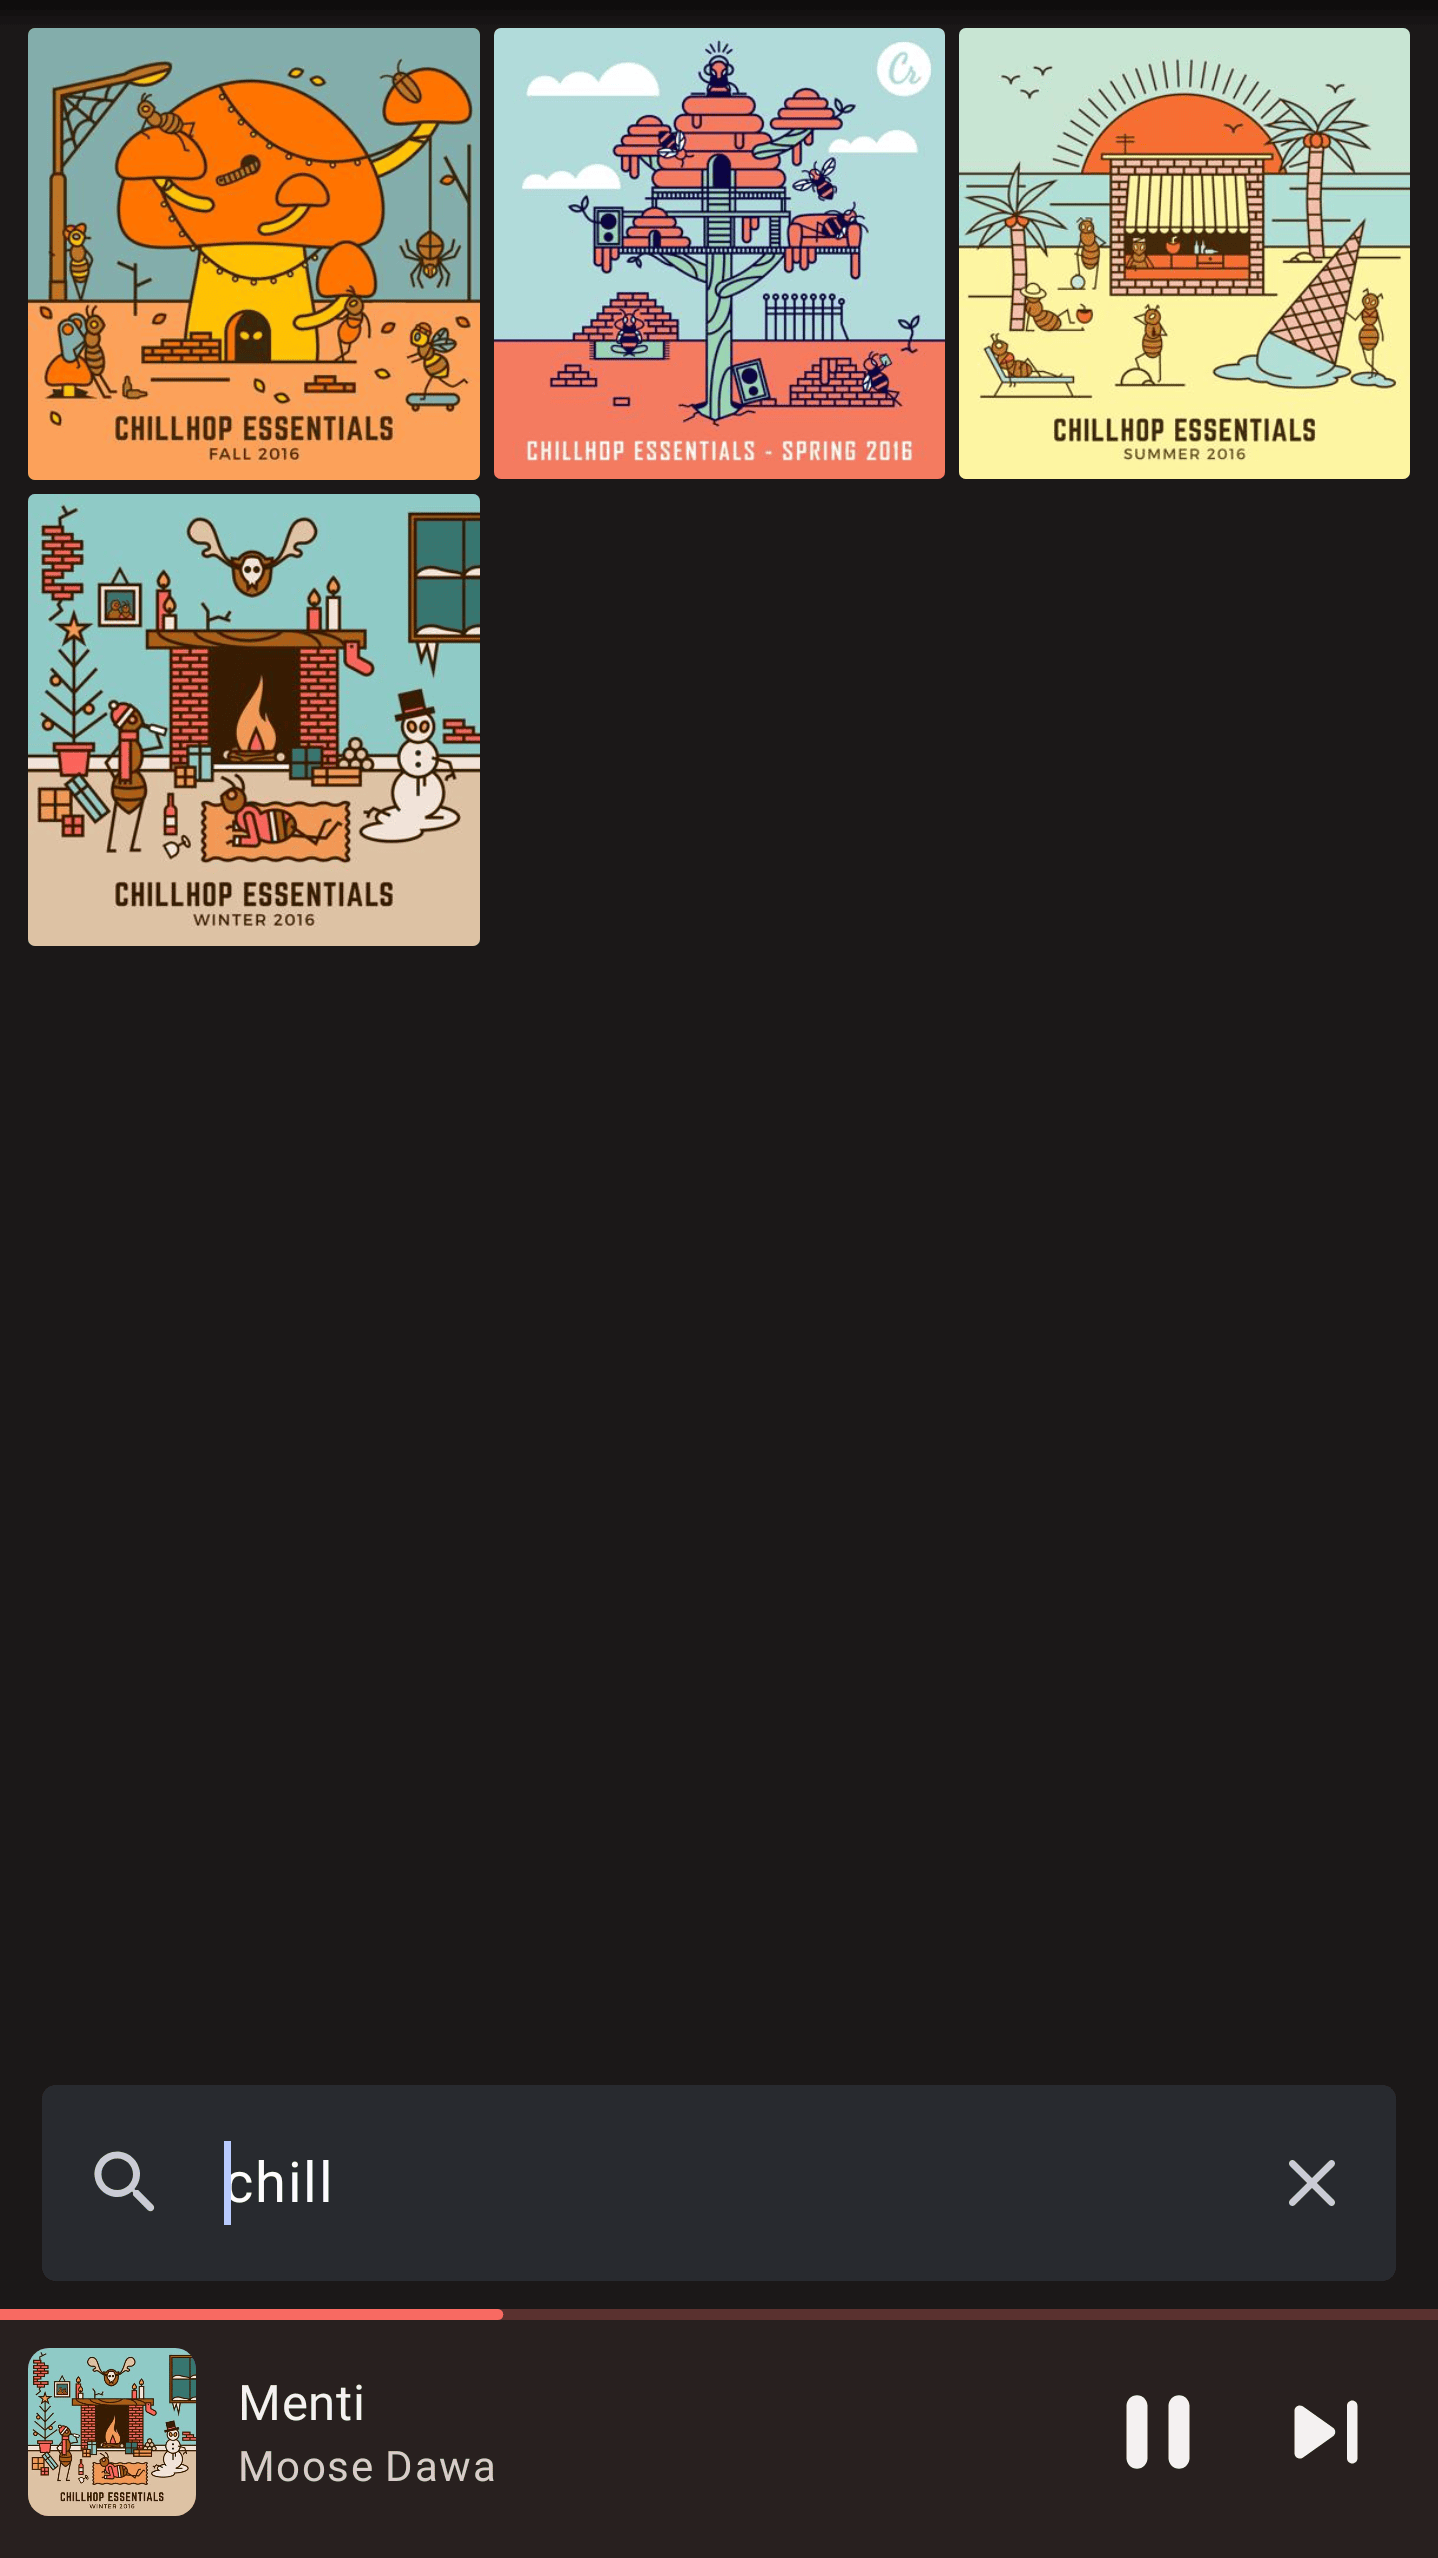
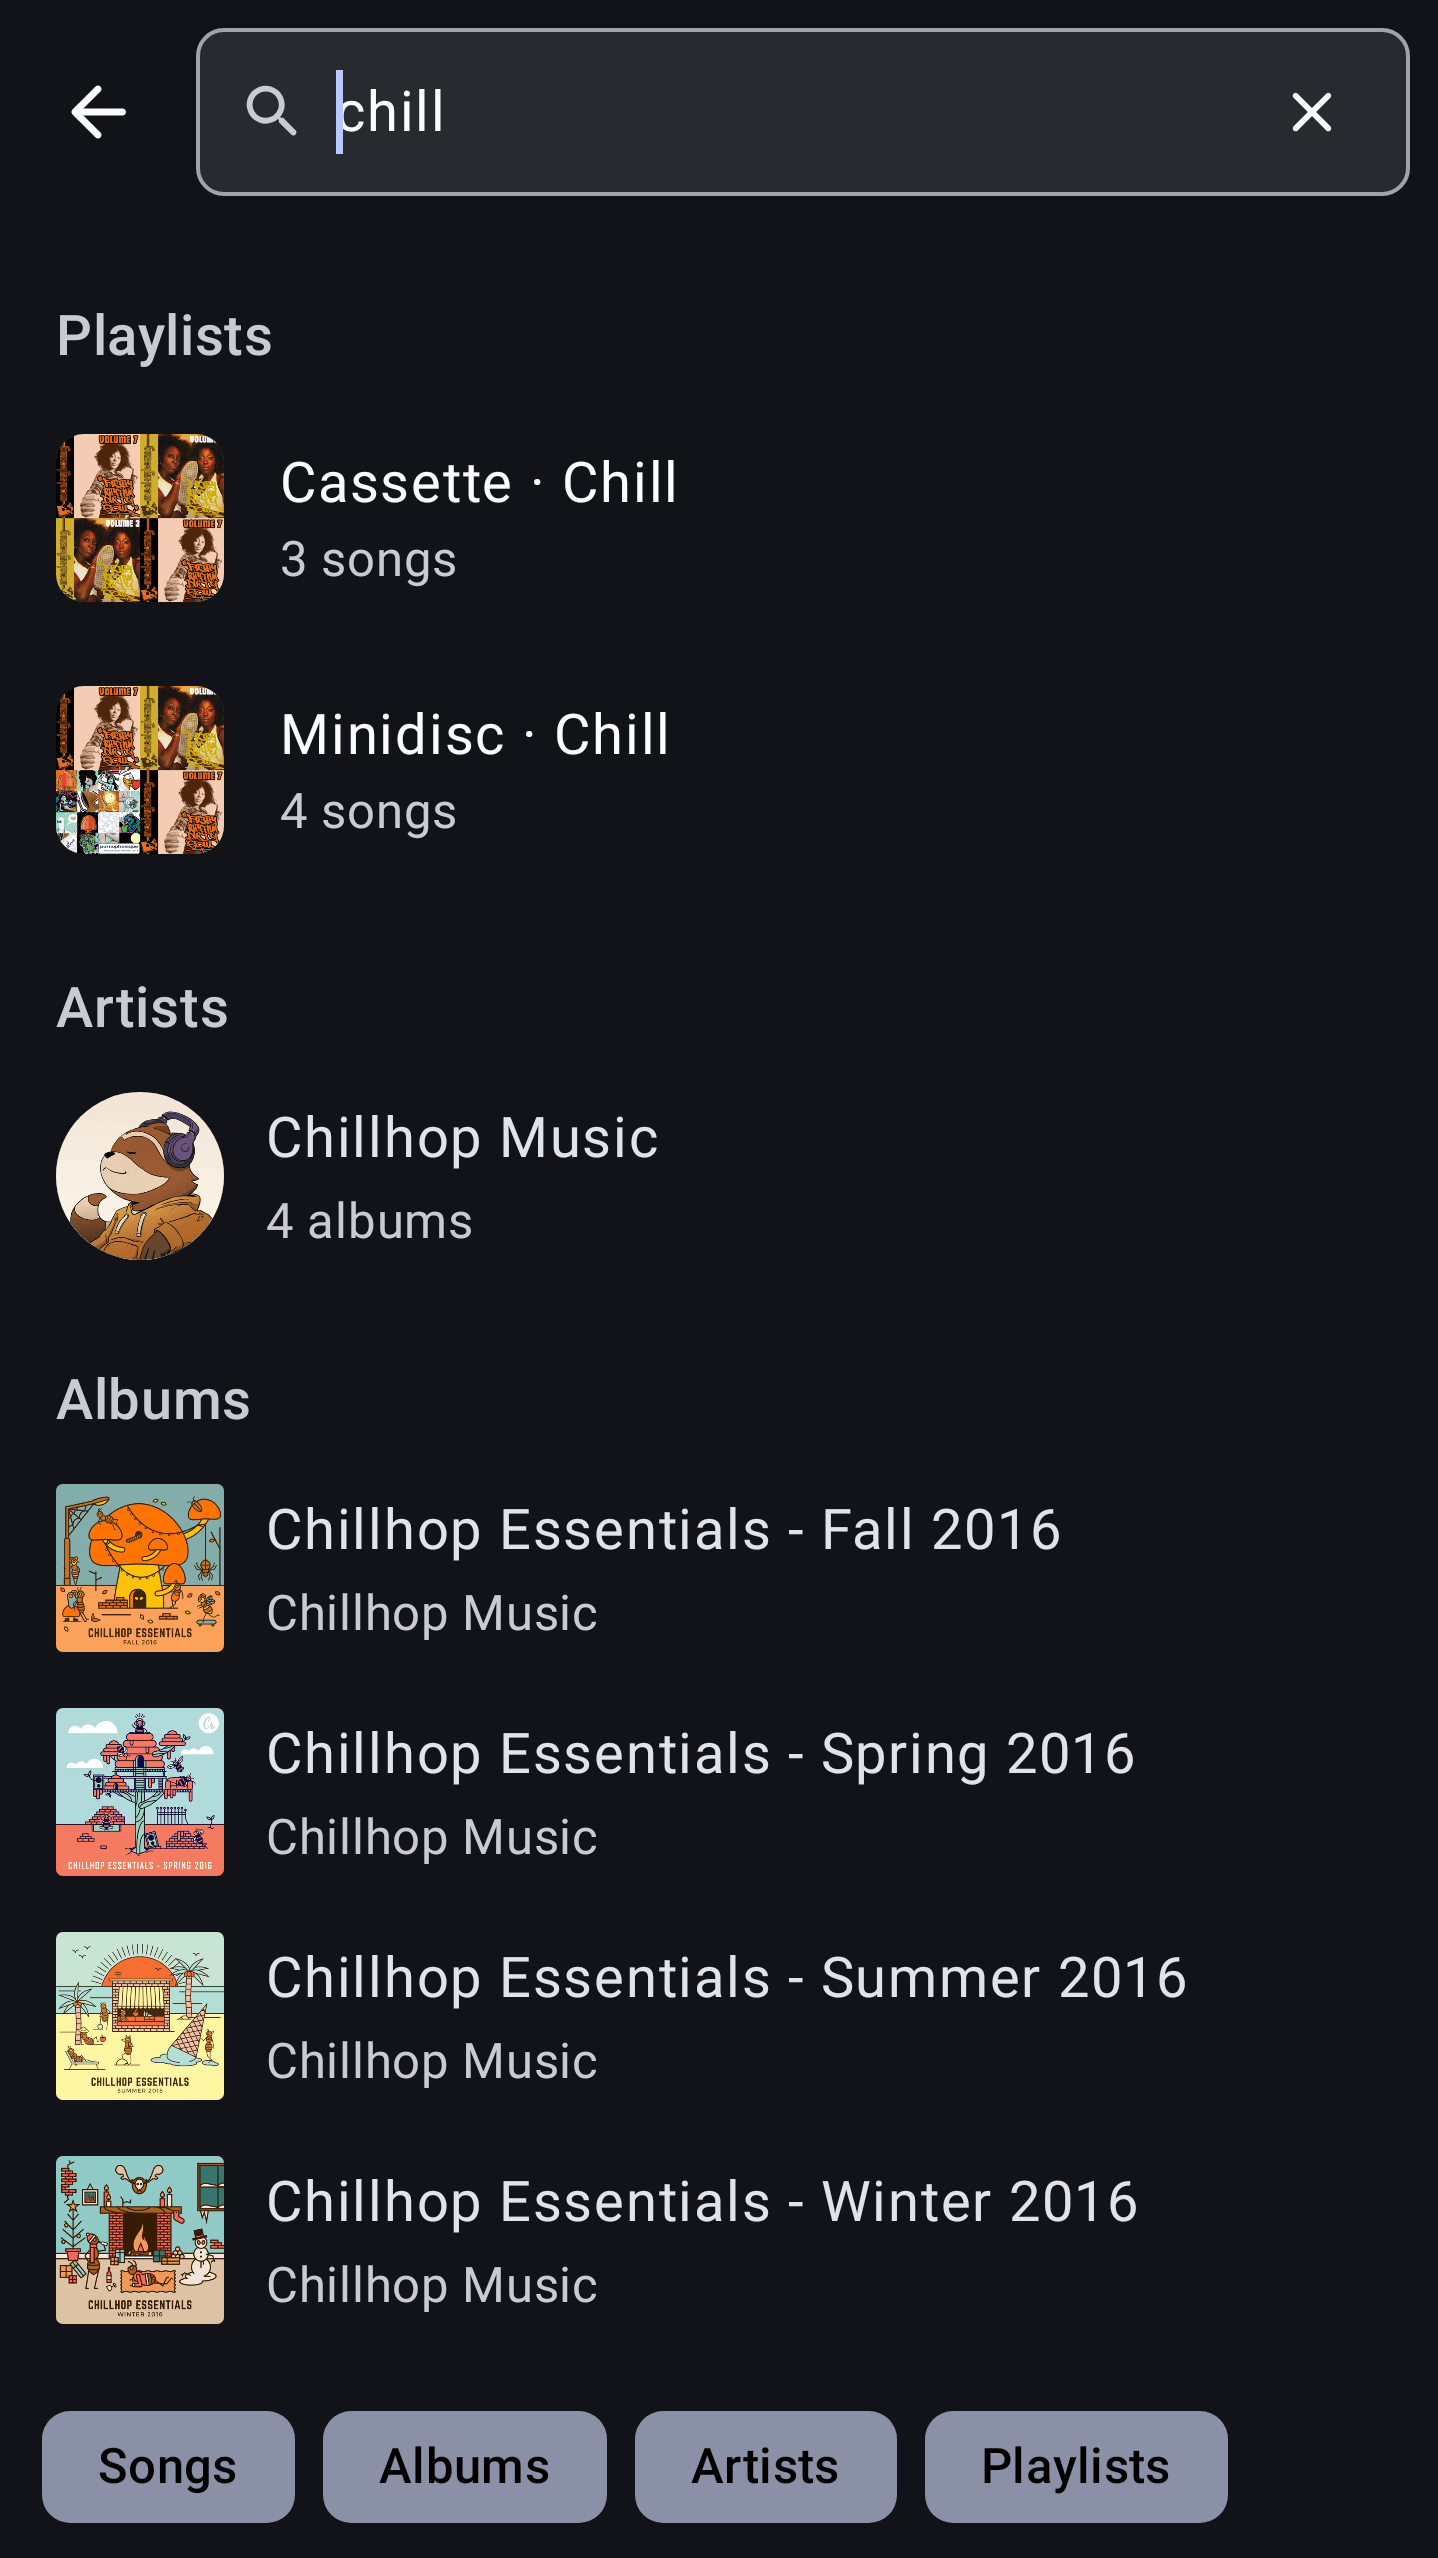
metadata: show the cross-library search screenshot
Render the dedicated SearchScreen with results across playlists, artists and
albums instead of the album tab's in-list search.

diff --git a/app/src/test/kotlin/com/subtracks/ui/DemoScreenshotTest.kt b/app/src/test/kotlin/com/subtracks/ui/DemoScreenshotTest.kt
@@ -38,6 +38,7 @@ import com.subtracks.data.model.Song
 import com.subtracks.data.model.Source
 import com.subtracks.data.model.coverArtKey
 import com.subtracks.data.prefs.ListQuery
+import com.subtracks.data.repo.SEARCH_RESULT_LIMIT
 import com.subtracks.data.source.subsonic.SubsonicSource
 import com.subtracks.data.source.subsonic.TestServer
 import com.subtracks.data.source.subsonic.TestServers
@@ -53,6 +54,8 @@ import com.subtracks.ui.library.LibraryTab
 import com.subtracks.ui.library.sortOptionsFor
 import com.subtracks.ui.playback.MiniPlayer
 import com.subtracks.ui.playback.NowPlayingScreen
+import com.subtracks.ui.search.SearchResults
+import com.subtracks.ui.search.SearchScreen
 import com.subtracks.ui.theme.ArtworkColors
 import com.subtracks.ui.theme.ArtworkTheme
 import com.subtracks.ui.theme.SubtracksTheme
@@ -203,29 +206,14 @@ class DemoScreenshotTest {
                         }
 
                         Screen.Search -> {
-                            Column(Modifier.fillMaxSize()) {
-                                LibraryScreen(
-                                    selectedTab = LibraryTab.Albums,
-                                    onTabSelected = {},
-                                    albums = remember { flowOf(PagingData.from(demo.searchAlbums)) },
-                                    artists = remember { flowOf(PagingData.empty<Artist>()) },
-                                    playlists = remember { flowOf(PagingData.empty<Playlist>()) },
-                                    coverArt = demo.coverArt,
-                                    onAlbumClick = {},
-                                    onArtistClick = {},
-                                    onPlaylistClick = {},
-                                    onSync = {},
-                                    onOpenSettings = {},
-                                    listQuery = ListQuery("Name"),
-                                    sortOptions = sortOptionsFor(LibraryTab.Albums),
-                                    starredSupported = true,
-                                    search = DEMO_SEARCH,
-                                    onSearchChange = {},
-                                    artwork = demo.artwork(demo.nowPlayingAlbum.coverArt),
-                                    modifier = Modifier.weight(1f),
-                                )
-                                demo.MiniPlayerOverlay(demo.nowPlayingSong, demo.nowPlayingAlbum)
-                            }
+                            SearchScreen(
+                                query = DEMO_SEARCH,
+                                onQueryChange = {},
+                                results = demo.search,
+                                coverArt = demo.coverArt,
+                                playingSongId = demo.nowPlayingSong.id,
+                                modifier = Modifier.fillMaxSize(),
+                            )
                         }
                     }
                 }
@@ -314,7 +302,7 @@ class DemoScreenshotTest {
         val homePlayingSong: Song,
         val artist: Artist,
         val artistAlbums: List<Album>,
-        val searchAlbums: List<Album>,
+        val search: SearchResults,
         val coverArt: (String?, Boolean) -> CoverArtRef?,
         val engine: FakeImageLoaderEngine,
         private val bitmaps: Map<String, Bitmap>,
@@ -452,12 +440,17 @@ class DemoScreenshotTest {
                             rediscoverAlbums = coveredAlbums(dao.rediscoverAlbums(1, System.currentTimeMillis() / 1000, 10).first()),
                         )
 
-                    val searchAlbums =
-                        albums
-                            .filter {
-                                it.name.contains(DEMO_SEARCH, ignoreCase = true) ||
-                                    (it.albumArtist ?: "").contains(DEMO_SEARCH, ignoreCase = true)
-                            }.ifEmpty { albums.take(4) }
+                    val search =
+                        SearchResults(
+                            playlists =
+                                dao.searchPlaylists(1, DEMO_SEARCH, SEARCH_RESULT_LIMIT).first().filter { it.coverArt != null },
+                            artists =
+                                dao.searchArtists(1, DEMO_SEARCH, SEARCH_RESULT_LIMIT).first().filter { it.coverArt != null },
+                            albums =
+                                dao.searchAlbums(1, DEMO_SEARCH, SEARCH_RESULT_LIMIT).first().filter { it.coverArt != null },
+                            songs =
+                                dao.searchSongs(1, DEMO_SEARCH, SEARCH_RESULT_LIMIT).first().filter { it.coverArt != null },
+                        )
                     val fallback =
                         Bitmap
                             .createBitmap(1, 1, Bitmap.Config.ARGB_8888)
@@ -486,7 +479,7 @@ class DemoScreenshotTest {
                         homePlayingSong = homePlayingSong,
                         artist = artist,
                         artistAlbums = artistAlbums.filter { it.coverArt != null },
-                        searchAlbums = searchAlbums,
+                        search = search,
                         coverArt = coverArt,
                         engine = engine,
                         bitmaps = bitmaps,
